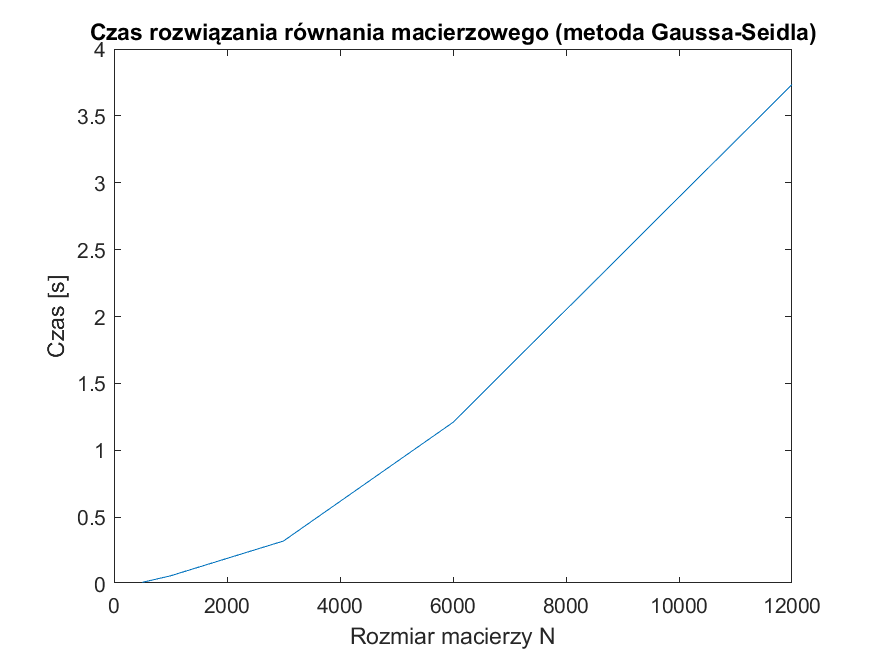
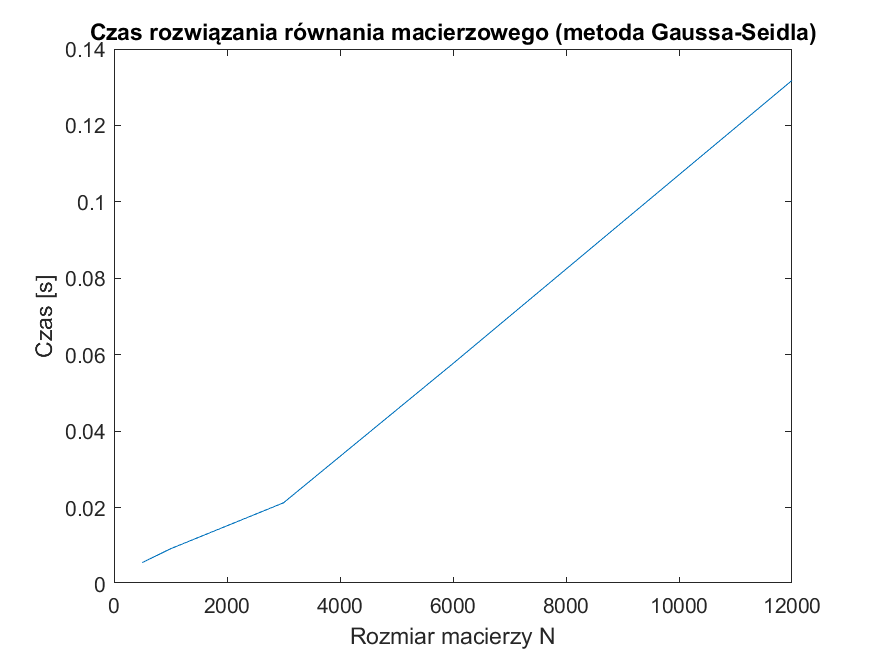
Fix Gauss-Seidl

diff --git a/lab3/main_lab3.m b/lab3/main_lab3.m
@@ -185,8 +185,8 @@ for i = 1:5
 
     r = ones(N(i), 1);
 
-    termOne = -I / (D + L) * U;
-    termTwo = I / (D + L) * b;
+    termOne = -(D + L);
+    termTwo = (D + L) \ b;
 
     iterations(i) = 1;
     res = 1;
@@ -197,7 +197,7 @@ for i = 1:5
             normres(k) = norm(res);
             k = k + 1;
         end
-        r = termOne * r + termTwo;
+        r = termOne \ (U*r) + termTwo;
         res = M * r - b;
         iterations(i) = iterations(i) + 1;
     end
